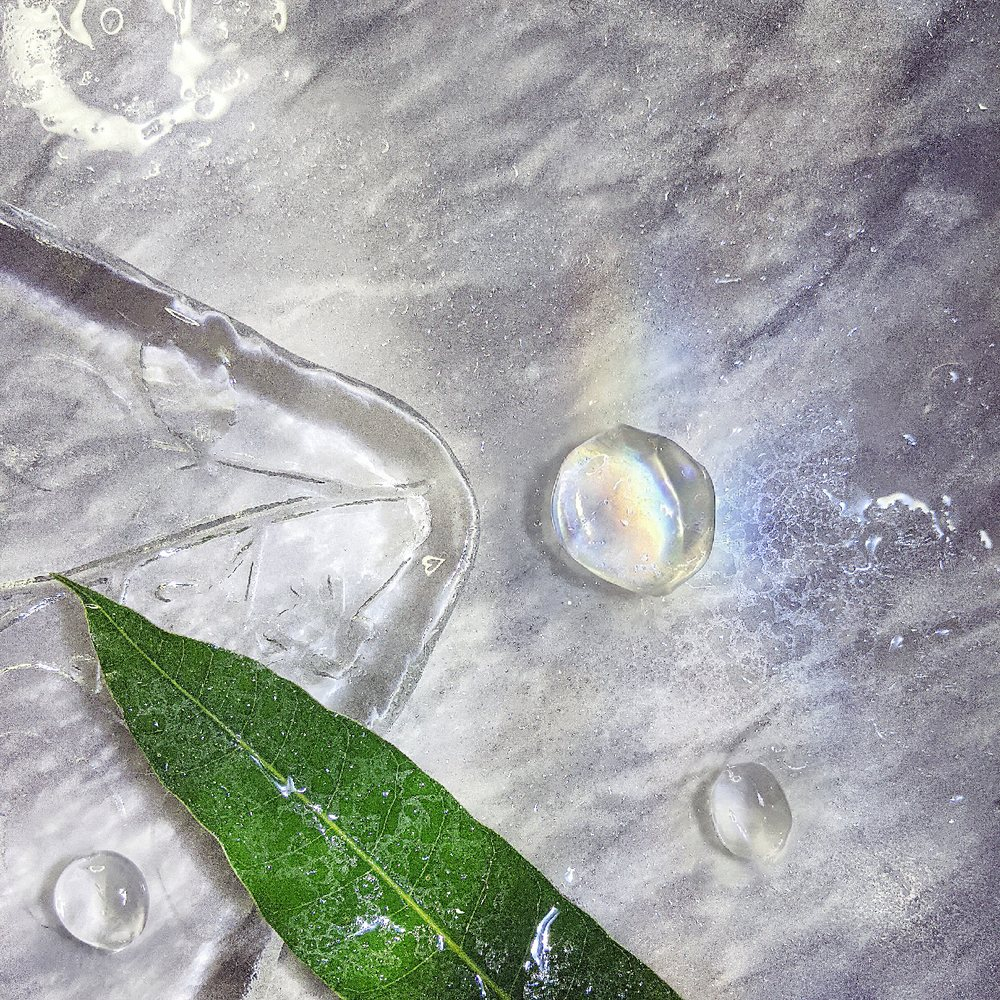
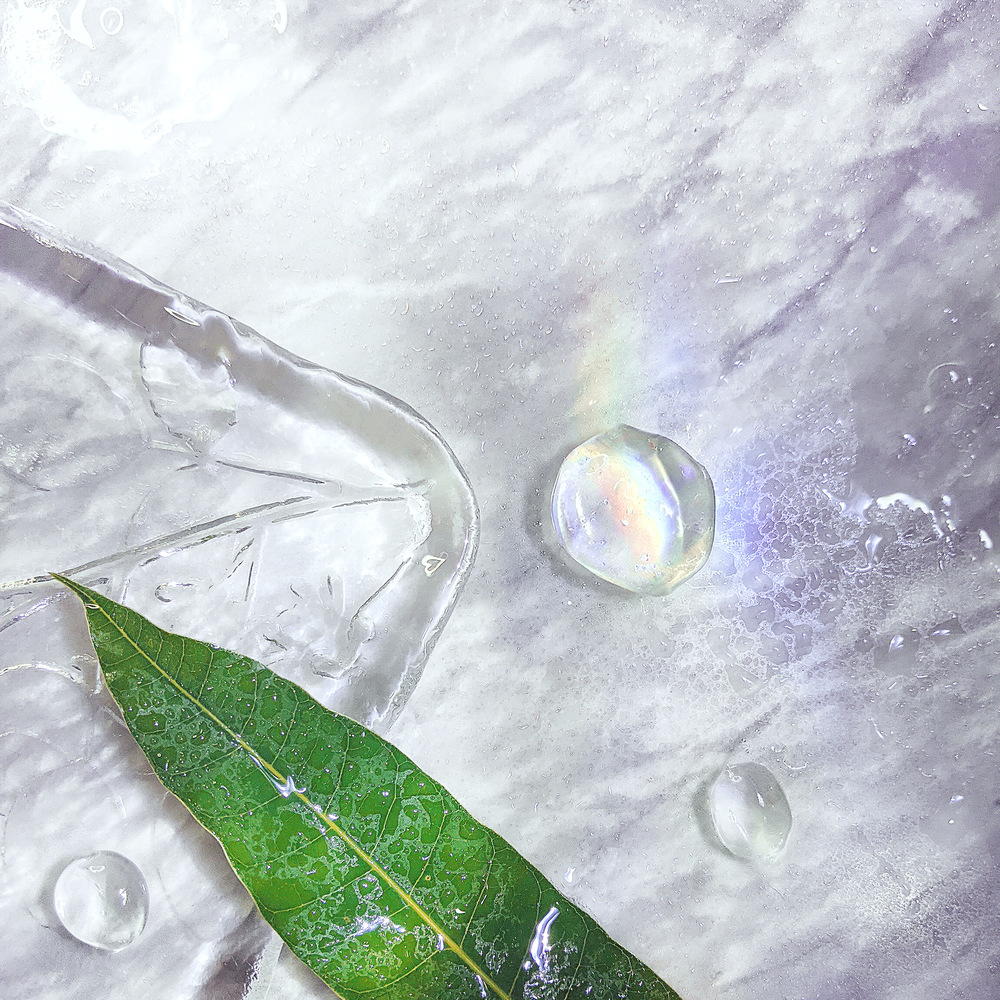
style: refresh Aftergreen title and cover

diff --git a/cyberpaean/aftergreen/style.css b/cyberpaean/aftergreen/style.css
@@ -110,12 +110,21 @@ nav { display: flex; flex-wrap: wrap; gap: .45rem 1.2rem; }
   box-shadow: var(--shadow);
 }
 h1 {
+  width: fit-content;
   margin: .55rem 0 .5rem;
   font-size: clamp(3rem, 8vw, 6.5rem);
   font-weight: 950;
   line-height: .98;
-  letter-spacing: -.07em;
-  color: var(--heading);
+  color: var(--green);
+}
+@supports (background-clip: text) {
+  @media (forced-colors: none) {
+    h1 {
+      background: linear-gradient(90deg, var(--green), #6a882e);
+      background-clip: text;
+      color: transparent;
+    }
+  }
 }
 .description { margin: 1rem 0 1.45rem; font-size: clamp(1rem, 2vw, 1.2rem); }
 .actions { display: flex; flex-wrap: wrap; gap: .65rem; }
